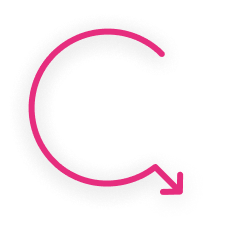
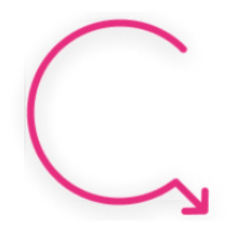
update

Changed region(s): [[0.0875, 0.0583, 0.875, 0.9042]]

diff --git a/src/modules/landing/banner.js b/src/modules/landing/banner.js
@@ -28,9 +28,11 @@ class Banner extends Component {
         if(theme === 'helpa'){
             setSelectedUser('agent')
             history.push('/agent')
+            location.reload()
         }else{
             setSelectedUser('helpa')
             history.push('/helpa')
+            location.reload()
         }
     }
     render(){
@@ -174,18 +176,18 @@ class Banner extends Component {
                     {
                         theme === 'agent' ? 
                         <SvgIcon
-                                    component={ArrowBackIosIcon}
-                                    style={{
-                                        fontSize: 60,
-                                        color: theme == 'agent' ? Colors.agentDarkGray : Colors.helpaDarkPink
-                                    }}
-                                    className='card-icon'
+                        component={ArrowBackIosIcon}
+                        style={{
+                            fontSize: 50,
+                            color: theme == 'agent' ? Colors.agentDarkGray : Colors.helpaDarkPink
+                        }}
+                        className='card-icon'
                         />
                                 :
                         <SvgIcon
                         component={ArrowForwardIosIcon}
                         style={{
-                            fontSize: 60,
+                            fontSize: 50,
                             color: theme == 'agent' ? Colors.agentDarkGray : Colors.helpaDarkPink
                         }}
                         className='card-icon'

diff --git a/src/modules/landing/Style.css b/src/modules/landing/Style.css
@@ -10,8 +10,9 @@
   background-color: #f290bb;
   color: #E62D7E;
   padding-top: 30px;
-  width: 100px;
-  padding-bottom: 20px;
+  padding-left: 20px;
+  width: 80px;
+  padding-bottom: 30px;
   border-radius: 200px;
   border-top-left-radius: 0;
   border-bottom-left-radius: 0;
@@ -23,10 +24,10 @@
   top: 30%;
   background-color: #59687A;
   color: #34475D;
-  padding-top: 50px;
+  padding-top: 30px;
   padding-left: 20px;
-  width: 100px;
-  padding-bottom: 40px;
+  width: 80px;
+  padding-bottom: 30px;
   border-radius: 200px;
   border-top-right-radius: 0;
   border-bottom-right-radius: 0;

diff --git a/src/modules/contacts/index.js b/src/modules/contacts/index.js
@@ -107,7 +107,7 @@ export class Contacts extends Component {
       >
         <h1 style={{
           color: accountType == 'agent' ? Colors.agentText : Colors.helpaText
-        }}>Contact Us</h1>
+        }}>Contact us</h1>
         <p style={{
           color: accountType == 'agent' ? Colors.agentText : Colors.helpaText
         }}>We love questions and feedback - and we’re always happy to help! Here are some ways to contact us.</p>
